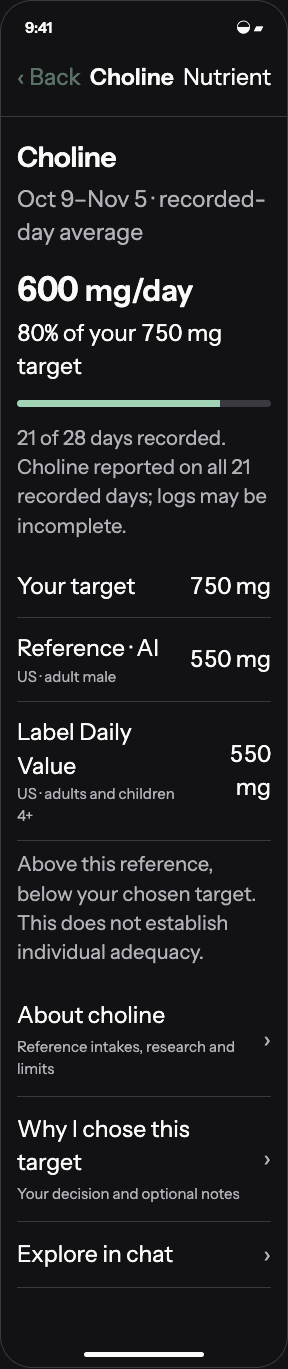
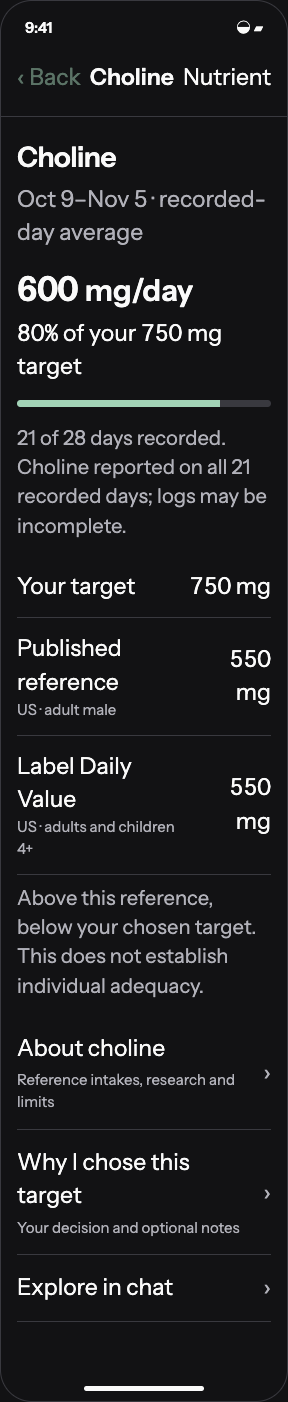
Refine phone layout, reference labels and action sizing

diff --git a/design/2026-11-06/nutrient-evidence/index.html b/design/2026-11-06/nutrient-evidence/index.html
@@ -2,9 +2,9 @@
 @font-face{font-family:Instrument;src:url('../../../ios/App/App/Fonts/InstrumentSans-Regular.ttf')}@font-face{font-family:Instrument;src:url('../../../ios/App/App/Fonts/InstrumentSans-SemiBold.ttf');font-weight:600}
 :root{--bg:#f7f7f8;--surface:#fff;--ink:#18181b;--secondary:#606068;--rule:#dddde1;--fern:#27634c;--soft:#edf2ef;--ochre:#80580d;--error:#a52c34;font-size:17px;color-scheme:light}
 *{box-sizing:border-box}body{margin:0;background:var(--bg);color:var(--ink);font-family:Instrument,system-ui,sans-serif;line-height:1.45}body.dark{--bg:#121214;--surface:#202023;--ink:#fafafa;--secondary:#b1b1b9;--rule:#39393f;--fern:#a3d3b7;--soft:#293c32;--ochre:#e6c272;--error:#ffb0b4;color-scheme:dark}body.large{font-size:23px}
-button,input,select,textarea{font:inherit;color:inherit}button,a,input,select,textarea{touch-action:manipulation}button{min-height:44px;white-space:normal;text-align:left;background:none;border:0;padding:10px 12px;border-radius:12px;cursor:pointer}button:focus-visible,a:focus-visible{outline:3px solid var(--fern);outline-offset:3px}button.primary{background:var(--fern);color:var(--surface);text-align:center;font-weight:600}button.secondary{background:var(--soft);color:var(--fern)}button.full{display:block;width:100%;margin-top:12px}button.link{color:var(--fern);padding-inline:0}button:disabled{opacity:.5;cursor:default}a{color:var(--fern)}
+button,input,select,textarea{font:inherit;color:inherit}button,a,input,select,textarea{touch-action:manipulation}button{min-height:44px;white-space:normal;text-align:left;background:none;border:0;padding:10px 12px;border-radius:12px;cursor:pointer}button:focus-visible,a:focus-visible{outline:3px solid var(--fern);outline-offset:3px}button.primary{background:var(--fern);color:var(--surface);text-align:center;font-weight:600}button.secondary{background:var(--soft);color:var(--fern)}button.link{color:var(--fern);padding-inline:0}button:disabled{opacity:.5;cursor:default}a{color:var(--fern)}
 .review{padding:32px;max-width:1160px;margin:auto;display:grid;grid-template-columns:minmax(220px,1fr) minmax(320px,390px);gap:64px;align-items:start}.review h1{font-size:34px;line-height:1.1;letter-spacing:-.8px;margin:16px 0}.review aside{max-width:460px}.eyebrow{color:var(--secondary);font-size:15px}.lede{font-size:20px}.tools{display:flex;flex-wrap:wrap;gap:8px;margin:24px 0}.tools button{border:1px solid var(--rule)}.steps{display:grid;gap:8px;margin-top:24px}.steps button{border-bottom:1px solid var(--rule);border-radius:0;padding:12px 0}.steps button[aria-current=step]{color:var(--fern);font-weight:600}.stage{color:var(--fern);font-weight:600}.note{font-size:15px;color:var(--secondary)}
-.phone{width:100%;background:var(--bg);border:1px solid var(--rule);border-radius:32px;overflow:hidden;min-height:780px;box-shadow:0 12px 44px #00000008}.status{display:flex;justify-content:space-between;padding:16px 24px 8px;font-size:15px;font-weight:600}.nativebar{display:flex;align-items:center;justify-content:space-between;gap:8px;padding:4px 16px 12px;border-bottom:1px solid var(--rule)}.nativebar strong{font-weight:600}.nativebar button{color:var(--fern);padding-inline:0;flex-shrink:0}.screen{padding:24px 16px;min-height:640px}.screen h2{font-size:28px;line-height:1.2;letter-spacing:-.5px;margin:0 0 8px}.screen h3{font-size:19px;margin:24px 0 8px;font-weight:600}.screen p{margin:8px 0 16px}.muted{color:var(--secondary)}.small{font-size:.88em}.mono{font-variant-numeric:tabular-nums}.user{background:var(--surface);border-radius:18px 18px 4px 18px;padding:16px;margin:0 0 24px 28px}.assistant{margin:0 0 24px}.assistant .label{font-size:15px;color:var(--secondary);margin-bottom:8px}.card{background:var(--surface);border-radius:18px;padding:16px;margin:16px 0}.card h3{margin-top:0}.row{display:flex;align-items:center;justify-content:space-between;gap:16px;padding:14px 0;border-bottom:1px solid var(--rule);min-height:52px}.row>*{min-width:0}.row>span:last-child{text-align:right}.row small{display:block;color:var(--secondary);font-size:15px}.navrow{width:100%;display:flex;align-items:center;justify-content:space-between;gap:16px;padding:16px 0;border-bottom:1px solid var(--rule);border-radius:0}.navrow span{min-width:0}.navrow small{display:block;font-size:15px;margin-top:4px}.chevron{color:var(--secondary);flex-shrink:0}.big{font-size:34px;line-height:1.15;font-weight:600;font-variant-numeric:tabular-nums;margin:20px 0 4px}.meter{height:7px;background:var(--rule);border-radius:4px;overflow:hidden;margin:16px 0}.meter i{display:block;height:100%;background:var(--fern)}.choices{display:flex;gap:8px;flex-wrap:wrap}.choices button{background:var(--surface);border:1px solid var(--rule)}label.field{display:block;margin:16px 0}label.field>span{display:block;margin-bottom:8px}input,select,textarea{background:var(--surface);border:1px solid var(--rule);border-radius:12px;padding:12px;width:100%;min-height:48px}textarea{resize:vertical;min-height:200px;line-height:1.5}.inline{display:flex;align-items:center;gap:12px}.inline input{width:auto}.receipt{padding:16px 0;border-block:1px solid var(--rule);margin:20px 0}.receipt strong{display:block}.alert{color:var(--error)}.safe{height:5px;width:120px;border-radius:4px;background:var(--ink);margin:16px auto 10px}.composer{display:flex;align-items:center;gap:8px;border-top:1px solid var(--rule);padding:12px 16px;background:var(--surface)}.composer input{border:0;background:var(--bg);font-size:17px}.composer button{color:var(--fern)}[role=status]{min-height:24px;color:var(--fern);font-size:15px}.timeline{border-left:2px solid var(--rule);padding-left:16px;margin:20px 0}.timeline>div{margin-bottom:24px}.pill{font-size:15px;color:var(--secondary)}.reportline{border-left:3px solid var(--fern);padding-left:16px;margin:24px 0}.reportline .big{margin:8px 0}.footer{padding:0 32px 24px;max-width:1160px;margin:auto;color:var(--secondary);font-size:15px}
+.phone{width:100%;background:var(--bg);border:1px solid var(--rule);border-radius:32px;overflow:hidden;min-height:780px;box-shadow:0 12px 44px #00000008}.status{display:flex;justify-content:space-between;padding:16px 24px 8px;font-size:15px;font-weight:600}.nativebar{display:flex;align-items:center;justify-content:space-between;gap:8px;padding:4px 16px 12px;border-bottom:1px solid var(--rule)}.nativebar strong{font-weight:600}.nativebar button{color:var(--fern);padding-inline:0;flex-shrink:0}.screen{padding:24px 16px;min-height:640px}.screen h2{font-size:28px;line-height:1.2;letter-spacing:-.5px;margin:0 0 8px}.screen h3{font-size:19px;margin:24px 0 8px;font-weight:600}.screen p{margin:8px 0 16px}.muted{color:var(--secondary)}.small{font-size:.88em}.mono{font-variant-numeric:tabular-nums}.user{background:var(--surface);border-radius:18px 18px 4px 18px;padding:16px;margin:0 0 24px 28px}.assistant{margin:0 0 24px}.assistant .label{font-size:15px;color:var(--secondary);margin-bottom:8px}.card{background:var(--surface);border-radius:18px;padding:16px;margin:16px 0}.card h3{margin-top:0}.row{display:flex;align-items:center;justify-content:space-between;gap:16px;padding:14px 0;border-bottom:1px solid var(--rule);min-height:52px}.row>*{min-width:0}.row>span:last-child{text-align:right}.row small{display:block;color:var(--secondary);font-size:15px}.navrow{width:100%;display:flex;align-items:center;justify-content:space-between;gap:16px;padding:16px 0;border-bottom:1px solid var(--rule);border-radius:0}.navrow span{min-width:0}.navrow small{display:block;font-size:15px;margin-top:4px}.chevron{color:var(--secondary);flex-shrink:0}.big{font-size:34px;line-height:1.15;font-weight:600;font-variant-numeric:tabular-nums;margin:20px 0 4px}.meter{height:7px;background:var(--rule);border-radius:4px;overflow:hidden;margin:16px 0}.meter i{display:block;height:100%;background:var(--fern)}.choices{display:flex;gap:8px;flex-wrap:wrap}.choices button{background:var(--surface);border:1px solid var(--rule)}label.field{display:block;margin:16px 0}label.field>span{display:block;margin-bottom:8px}input,select,textarea{background:var(--surface);border:1px solid var(--rule);border-radius:12px;padding:12px;width:100%;min-height:48px}textarea{resize:vertical;min-height:200px;line-height:1.5}.inline{display:flex;align-items:center;gap:12px}.inline input{width:auto}.receipt{padding:16px 0;border-block:1px solid var(--rule);margin:20px 0}.receipt strong{display:block}.alert{color:var(--error)}.safe{height:5px;width:120px;border-radius:4px;background:var(--ink);margin:16px auto 10px}.composer{display:flex;align-items:center;gap:8px;border-top:1px solid var(--rule);padding:12px 16px;background:var(--surface)}.composer input{border:0;background:var(--bg);font-size:17px}.composer button{color:var(--fern)}[role=status]{min-height:24px;color:var(--fern);font-size:15px}.timeline{margin:20px 0}.timeline>div{margin-bottom:24px}.pill{font-size:15px;color:var(--secondary)}.reportline{margin:24px 0}.reportline .big{margin:8px 0}.footer{padding:0 32px 24px;max-width:1160px;margin:auto;color:var(--secondary);font-size:15px}
 @media(max-width:760px){.review{display:flex;flex-direction:column;padding:20px 16px;gap:24px}.review aside{max-width:none}.phone{max-width:430px;align-self:center}.steps{display:flex;flex-wrap:wrap;gap:4px}.steps button{padding:8px}.review h1{font-size:28px}.lede{font-size:17px}.footer{padding:16px}}@media(prefers-reduced-motion:no-preference){button{transition:background .16s ease-out}}
 </style></head><body>
     <main class="review"><aside><div class="eyebrow">NUTRIENT / INTERACTION STUDY / NOV 6, 2026</div><h1>A target you can understand</h1><p class="lede">Personal goals, published references and research have different meanings. Keep the explanation close, and let the user choose how deep to go.</p><p class="stage">First implementation</p><div class="tools"><button onclick="toggleTheme()">Light / dark</button><button onclick="toggleText()">Larger text</button></div><nav class="steps" aria-label="Review scenario"><button onclick="go(0)" aria-current="false">Nutrient detail</button><button onclick="go(1)" aria-current="false">General explanation</button><button onclick="go(2)" aria-current="false">Source drill-down</button><button onclick="go(3)" aria-current="false">Personal decision</button><button onclick="go(4)" aria-current="false">Contextual chat</button></nav><p class="note">Browser reference for a future native SwiftUI flow. Synthetic data. Changes stay in this page’s memory; no app data, tools or notifications are connected.</p><a href="https://github.com/kggreco11/nutrient/issues/2">Implementation issue #2 ↗</a></aside>
@@ -25,11 +25,11 @@ function back(){go(Math.max(0,view-1));}
 
 const titles=['Choline','About choline','Sources','Your target','Chat'];
 const screens=[
-()=>`<h2>Choline</h2><p class="muted">Oct 9–Nov 5 · recorded-day average</p><div class="big">600 <span class="small">mg/day</span></div><p class="mono">80% of your 750 mg target</p><div class="meter" role="progressbar" aria-label="Personal choline target" aria-valuemin="0" aria-valuemax="100" aria-valuenow="80"><i style="width:80%"></i></div><p class="muted small">21 of 28 days recorded. Choline reported on all 21 recorded days; logs may be incomplete.</p>${row('Your target','750 mg')}${row('Reference · AI','550 mg','US · adult male')}${row('Label Daily Value','550 mg','US · adults and children 4+')}<p class="small muted">Above this reference, below your chosen target. This does not establish individual adequacy.</p>${nav('About choline',1,'Reference intakes, research and limits')}${nav('Why I chose this target',3,'Your decision and optional notes')}${nav('Explore in chat',4)}`,
-()=>`<h2>About choline</h2><p>Choline supports cell membranes and other normal body functions.</p><h3>What the reference means</h3><p>The US adult male reference is an Adequate Intake of 550 mg/day. An AI is used when evidence is insufficient to set an RDA.</p><h3>What it doesn’t tell us</h3><p>This reference does not establish an optimal intake for your training. Being below a personal goal is not a diagnosis.</p><h3>Applicable upper limit</h3><p>US adults 19+: 3,500 mg/day from food and supplements. This is a reference limit, not a target or a precise toxicity boundary.</p>${nav('Sources and limitations',2,'NIH Office of Dietary Supplements')}${nav('Ask about the evidence',4)}`,
-()=>`<h2>Sources</h2><div class="pill">REFERENCE SUMMARY · CHECKED NOV 6, 2026</div><h3>Choline: Fact Sheet for Health Professionals</h3><p class="muted">NIH Office of Dietary Supplements</p><p>Supports the AI, Daily Value and adult upper-limit references shown here.</p>${row('Applies to','US adults 19+','550 mg AI example: adult male')}${row('Intake scope','Food + supplements')}<h3>Limitations</h3><p>A reference summary is not a trial showing that a higher target improves performance. Personal requirements vary.</p><a href="https://ods.od.nih.gov/factsheets/Choline-HealthProfessional/" target="_blank" rel="noopener">Open original source ↗</a><p class="small muted">The original source includes the underlying references.</p>${nav('Discuss this source',4)}`,
+()=>`<h2>Choline</h2><p class="muted">Oct 9–Nov 5 · recorded-day average</p><div class="big">600 <span class="small">mg/day</span></div><p class="mono">80% of your 750 mg target</p><div class="meter" role="progressbar" aria-label="Personal choline target" aria-valuemin="0" aria-valuemax="100" aria-valuenow="80"><i style="width:80%"></i></div><p class="muted small">21 of 28 days recorded. Choline reported on all 21 recorded days; logs may be incomplete.</p>${row('Your target','750 mg')}${row('Published reference','550 mg','US · adult male')}${row('Label Daily Value','550 mg','US · adults and children 4+')}<p class="small muted">Above this reference, below your chosen target. This does not establish individual adequacy.</p>${nav('About choline',1,'Reference intakes, research and limits')}${nav('Why I chose this target',3,'Your decision and optional notes')}${nav('Explore in chat',4)}`,
+()=>`<h2>About choline</h2><p>Choline supports cell membranes and other normal body functions.</p><h3>What the reference means</h3><p>The US adult male reference is an adequate intake of 550 mg/day. An adequate intake is used when evidence is insufficient to set a recommended dietary allowance.</p><h3>What it doesn’t tell us</h3><p>This reference does not establish an optimal intake for your training. Being below a personal goal is not a diagnosis.</p><h3>Applicable upper limit</h3><p>US adults 19+: 3,500 mg/day from food and supplements. This is a reference limit, not a target or a precise toxicity boundary.</p>${nav('Sources and limitations',2,'NIH Office of Dietary Supplements')}${nav('Ask about the evidence',4)}`,
+()=>`<h2>Sources</h2><div class="pill">REFERENCE SUMMARY · CHECKED NOV 6, 2026</div><h3>Choline: Fact Sheet for Health Professionals</h3><p class="muted">NIH Office of Dietary Supplements</p><p>Supports the AI, Daily Value and adult upper-limit references shown here.</p>${row('Applies to','US adults 19+','550 mg reference intake example: adult male')}${row('Intake scope','Food + supplements')}<h3>Limitations</h3><p>A reference summary is not a trial showing that a higher target improves performance. Personal requirements vary.</p><a href="https://ods.od.nih.gov/factsheets/Choline-HealthProfessional/" target="_blank" rel="noopener">Open original source ↗</a><p class="small muted">The original source includes the underlying references.</p>${nav('Discuss this source',4)}`,
 ()=>`<h2>Your choline target</h2><div class="big">750 mg/day</div><p class="muted">Personal tracking choice · Nov 6, 2026</p><h3>Why you chose it</h3><p>“A planning target I want to revisit after looking at my recorded intake.”</p><p class="small muted">Synthetic personal note. Separate from the reference evidence.</p><h3>Notes from chat</h3><p id="personalNote">No additional explanation saved.</p><button class="link" onclick="saveNote()">Add an editable note</button>${nav('Read general evidence',1)}${nav('Discuss my target',4)}`,
-()=>user('Why am I below my target but above the reference?')+reply(`<p>Your recorded average is 600 mg/day. That is 80% of your chosen 750 mg target, and above the separate 550 mg AI shown here.</p><p>Those comparisons answer different questions. They don’t establish your individual nutrient status.</p><p>We can explore how the AI was set or why you chose a higher goal.</p><div class="choices">${btn('Explore the reference',1,'secondary')}${btn('My goal decision',3,'secondary')}</div>`)
+()=>user('Why am I below my target but above the reference?')+reply(`<p>Your recorded average is 600 mg/day. That is 80% of your chosen 750 mg target, and above the separate 550 mg reference intake shown here.</p><p>Those comparisons answer different questions. They don’t establish your individual nutrient status.</p><p>We can explore how the published reference was established or why you chose a higher goal.</p><div class="choices">${btn('Explore the reference',1,'secondary')}${btn('My goal decision',3,'secondary')}</div>`)
 ];function saveNote(){const t=prompt('Personal note (saved in this prototype only):','I want to compare my goal with the published reference.');if(t!==null){$('#personalNote').textContent=t;announce('Personal note updated; target unchanged.');}}
 
 render();</script></body></html>

diff --git a/.interface-design/system.md b/.interface-design/system.md
@@ -26,6 +26,12 @@ Spacing: 4 pt base. `FieldSpace`: tight 4, item 8, controls 12, inset 16, sectio
 
 Depth: surface tones and subtle rules. Reserve the main card for the progress summary; other home sections use spacing and headings. Rounded controls 12 pt, summary card 20 pt, recipe/chat surfaces 16–20 pt. Keep chrome quiet; use solid fills and purposeful SF Symbols.
 
+## Personal layout preferences
+
+- Group text with spacing, headings and subtle horizontal rules. Never use a decorative vertical accent stripe beside a card or text block.
+- Size action buttons to their labels with comfortable padding and at least 44 pt hit targets. Use full-width buttons only when the interaction or layout specifically calls for them; navigation and selectable data rows may use their full row.
+- Keep phone report overviews compact; open a selected nutrient's chart in detail instead of stacking large plots. Use plain-language reference labels, with specialist terminology explained in the detail view.
+
 ## Nutrition semantics
 
 Coverage is a score out of 100: mean of 31 capped nutrient percentages. It is not the fraction of targets met. Display the score and target-completion count separately; explain the scope in coverage details. Macros and calories are separate from the 31 targets.

diff --git a/design/2026-11-06/nutrient-evidence/validation.md b/design/2026-11-06/nutrient-evidence/validation.md
@@ -17,3 +17,10 @@
 - Browser screenshots are design references, not screenshots of the native app. No physical-device, native keyboard/safe-area, full VoiceOver or accessibility certification claim.
 - No live model, research retrieval, settings persistence, target migration, history aggregation, push permission, scheduled job or injection-resistance test. Those remain implementation acceptance criteria.
 - Prototype steps can be selected directly for review; that reviewer navigation does not represent a production route around proposal consent.
+
+## Compact-layout refinement
+
+- Rechecked all selectable states at 320/390 px with normal/larger text and light/dark appearance; no horizontal overflow or JavaScript page errors.
+- Action buttons use their content width; navigation/data rows keep full-row hit targets. Decorative text/card rails were removed.
+- Nutrient reference labels use plain language. The reports overview opens chart detail separately, and All nutrients exposes the full catalog with unsampled/partial states.
+- No physical-iPhone diary access or real-history analysis occurred. Native implementation/verification is still outstanding.

diff --git a/design/2026-11-06/nutrient-evidence/README.md b/design/2026-11-06/nutrient-evidence/README.md
@@ -79,3 +79,7 @@ Choline fixture amounts (600/750 mg), personal notes and diary coverage are illu
 - [Nutrient evidence and baselines](https://github.com/kggreco11/nutrient/issues/2)
 - [Optional reports](https://github.com/kggreco11/nutrient/issues/3), dependent on historical context and baseline metadata
 - [Assistant response preferences](https://github.com/kggreco11/nutrient/issues/4), a later feature with protected app workflows
+
+## Layout refinement · 6 November 2026
+
+The shared design contract now records the user’s preference for content-sized action buttons, text grouped without decorative vertical accent rails, compact phone overviews, and plain-language reference labels. Navigation and selectable data rows retain full-row hit areas. Native implementation and iPhone validation remain outstanding.
